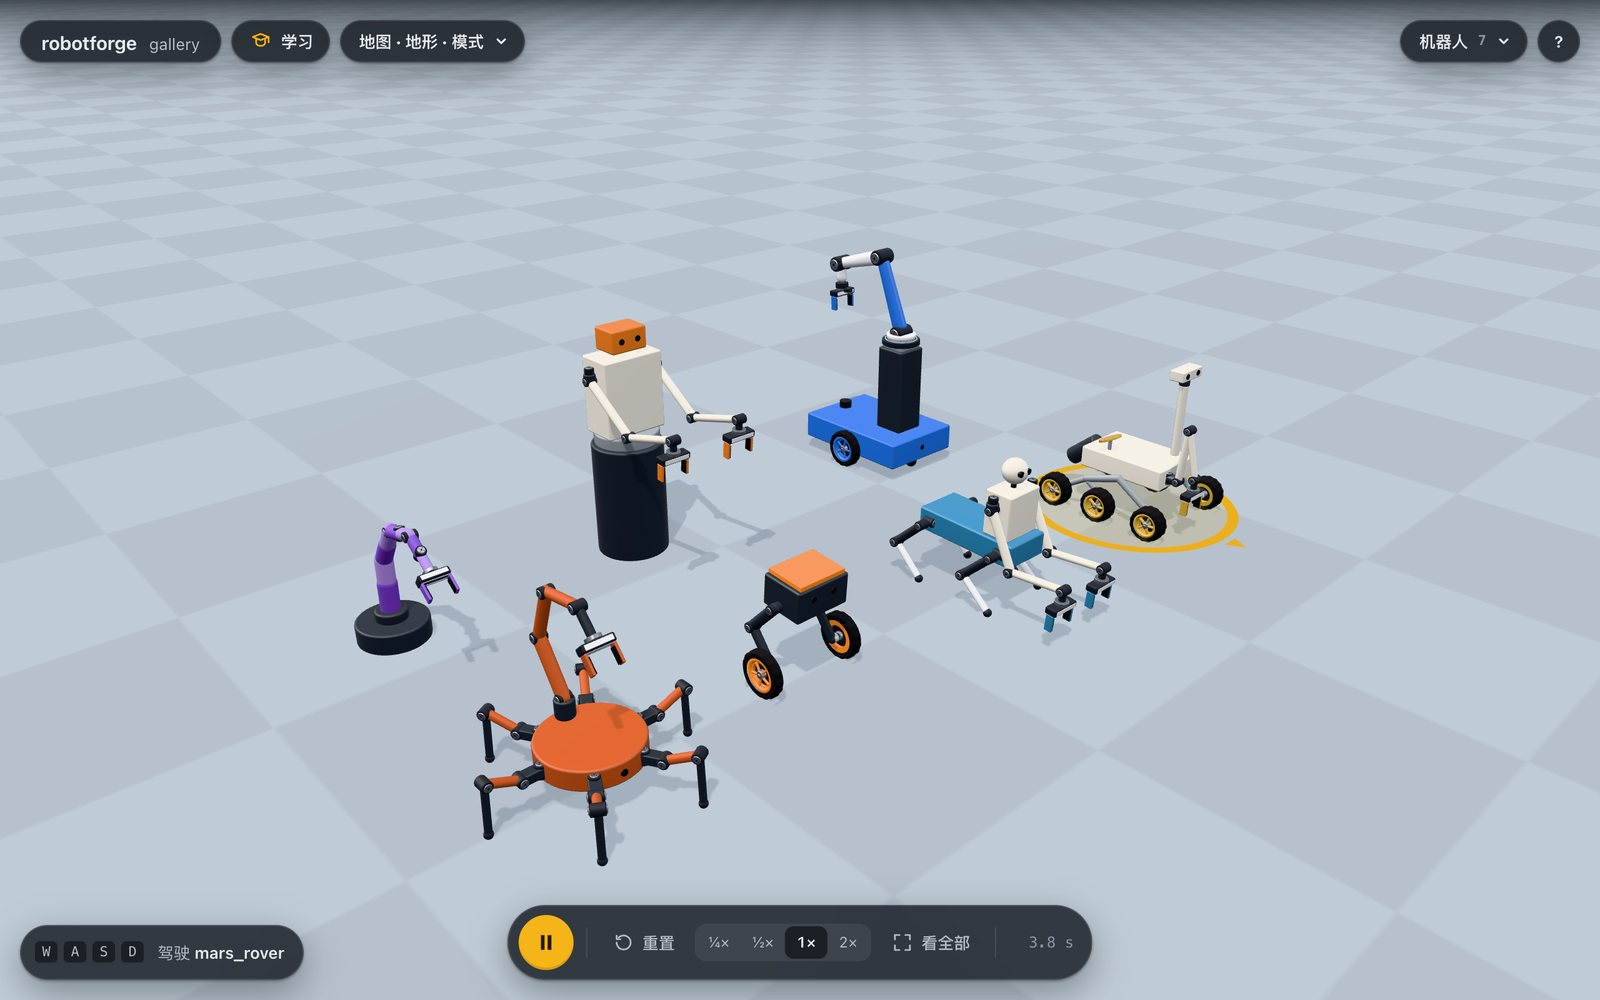
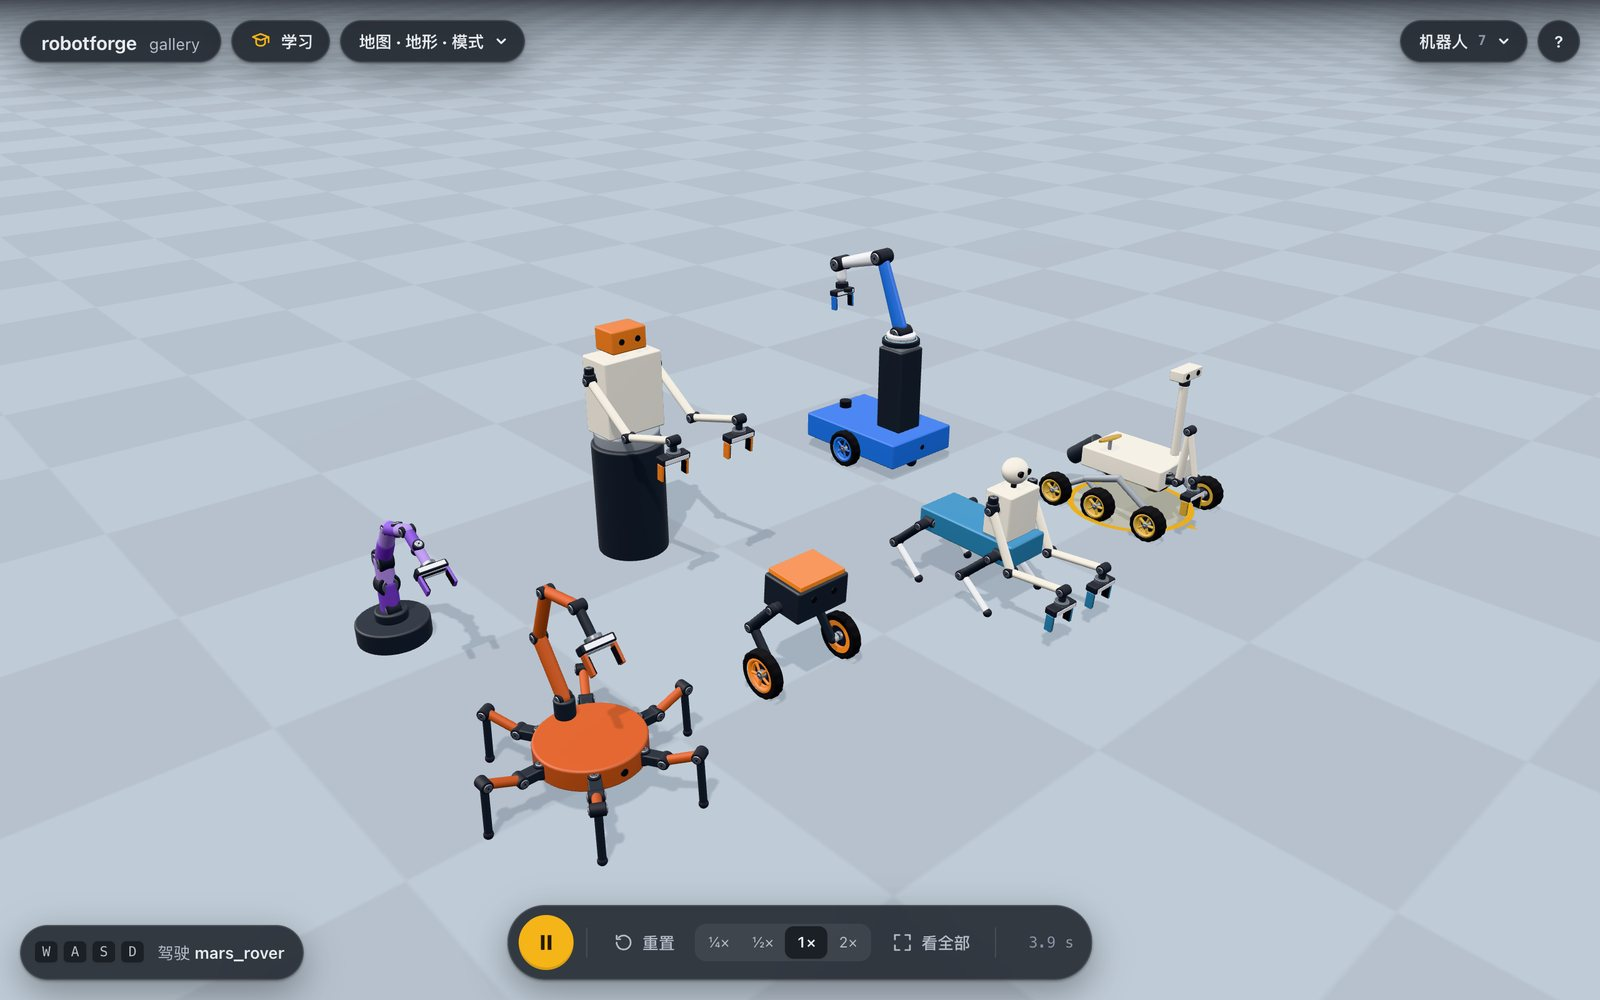
feat(gallery): a design's accent parts follow the robot's color
The parts drawn in a design's accent color (the biped's cover, the scorpion's legs and tail, the
twin arm's head, the tentacle's darker segments, the rover's dish) are colored "main", so one
update_part on the robot recolors the whole design. The overview picture is retaken with the
tentacle's stiffer joints.

Changed region(s): [[0.625, 0.465, 0.7812, 0.558], [0.2188, 0.527, 0.2812, 0.62]]

diff --git a/src/robotforge/design/gallery/legged.py b/src/robotforge/design/gallery/legged.py
@@ -107,7 +107,7 @@ def scorpion() -> dict[str, Any]:
                 "joint": {"range": [-80, 80], "home": -20},
                 "size": [0.022, 0.09],
                 "direction": "forward",
-                "color": "#b4532a",
+                "color": "main",
             },
             {
                 "name": "tibia",
@@ -137,7 +137,7 @@ def scorpion() -> dict[str, Any]:
                 "actuator": {"model": "sts3215", "gear": 2},
                 "size": [0.034, 0.15],
                 "direction": "up",
-                "color": "#b4532a",
+                "color": "main",
             },
             {
                 "name": "tail_2",
@@ -147,7 +147,7 @@ def scorpion() -> dict[str, Any]:
                 "actuator": {"model": "sts3215", "gear": 2},
                 "size": [0.03, 0.15],
                 "direction": "up",
-                "color": "#b4532a",
+                "color": "main",
             },
             {
                 "name": "tail_3",
@@ -156,7 +156,7 @@ def scorpion() -> dict[str, Any]:
                 "joint": {**tail, "home": 60},
                 "size": [0.026, 0.13],
                 "direction": "up",
-                "color": "#b4532a",
+                "color": "main",
             },
             {
                 "name": "tail_4",

diff --git a/src/robotforge/design/gallery/arms.py b/src/robotforge/design/gallery/arms.py
@@ -50,7 +50,7 @@ def twin_arm() -> dict[str, Any]:
                 "shape": "box",
                 "size": [0.09, 0.12, 0.07],
                 "direction": "up",
-                "color": accent,
+                "color": "main",
                 "sensors": [
                     {"type": "camera", "name": "left_eye", "at": [0.045, 0.028, 0.035]},
                     {"type": "camera", "name": "right_eye", "at": [0.045, -0.028, 0.035]},
@@ -94,7 +94,7 @@ def tentacle() -> dict[str, Any]:
             "size": [round(0.054 - 0.028 * share, 3), round(0.078 - 0.026 * share, 3)],
             "mass": round(0.05 - 0.025 * share, 3),  # thin-walled shells
             "direction": "up",
-            "color": "#7a4fbf" if i % 2 == 0 else "#a98ad8",
+            "color": "main" if i % 2 == 0 else "#a98ad8",
         }
         if i < 3:  # stiff joint modules where the most weight hangs on them
             segment["actuator"] = "bldc_joint"

diff --git a/tests/test_gallery.py b/tests/test_gallery.py
@@ -71,6 +71,17 @@ def test_a_design_is_added_by_name_and_kept_as_its_parts(pg):
     assert "right_shin" in [pg.session.model.body(b).name.split("/")[-1] for b in range(pg.session.model.nbody)]
 
 
+def test_recoloring_a_design_recolors_its_accent_parts(pg):
+    from robotforge.design import components
+
+    pg.add_robot("hopper", design="wheel_biped")
+    pg.update_part("hopper", "robot", {"color": "purple"})
+    m = pg.session.model
+    cover = m.body("hopper/cover").id
+    rgba = [m.geom_rgba[g] for g in range(m.ngeom) if m.geom_bodyid[g] == cover]
+    assert any(np.allclose(c, components.color("purple"), atol=1e-3) for c in rgba)
+
+
 def test_a_design_comes_alone_and_a_wrong_name_says_what_there_is(pg):
     with pytest.raises(PlaygroundError, match="leave out template.*update_part"):
         pg.add_robot("x", template="arm", design="centaur")

diff --git a/src/robotforge/design/gallery/wheeled.py b/src/robotforge/design/gallery/wheeled.py
@@ -34,7 +34,7 @@ def wheel_biped() -> dict[str, Any]:
                 "shape": "box",
                 "size": [0.12, 0.15, 0.014],
                 "direction": "up",
-                "color": "orange",
+                "color": "main",
             },
             {
                 "name": "left_thigh",
@@ -261,7 +261,7 @@ def mars_rover() -> dict[str, Any]:
                 "shape": "cylinder",
                 "size": [0.075, 0.008],
                 "direction": "up",
-                "color": GOLD,
+                "color": "main",
             },
             # The sampling arm, built from parts on the front of the body so it reaches down to the ground (a template
             # arm on the deck cannot bend below its own base). Stowed upright and folded between the front wheels.
